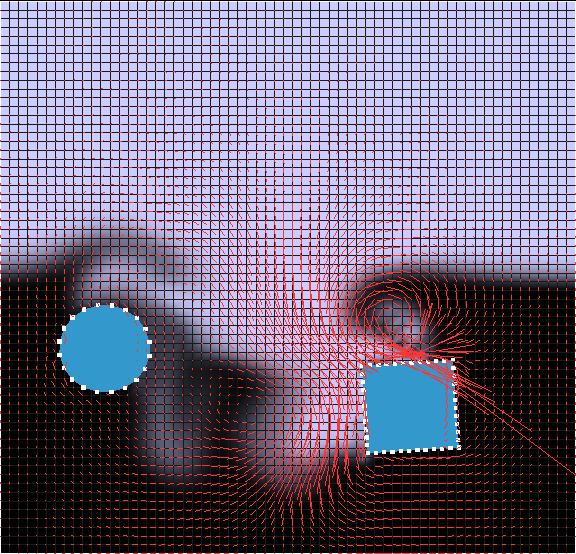
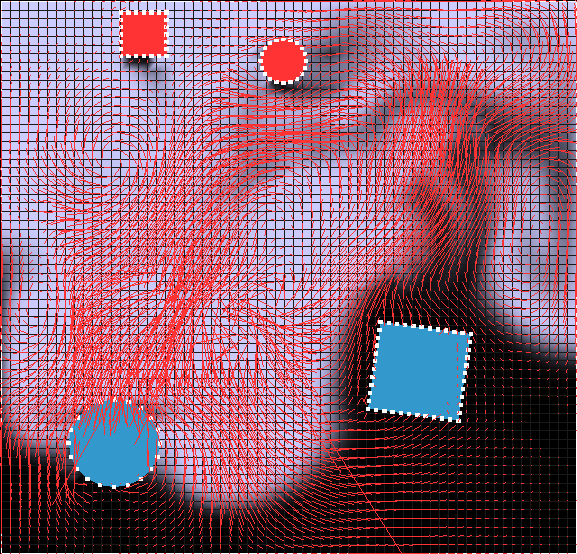
Added moving solids to scenario 4 and put image in report

diff --git a/Fluid Simulation/FluidsProject/Game.cs b/Fluid Simulation/FluidsProject/Game.cs
@@ -60,8 +60,14 @@ namespace FluidsProject
             Box box = new Box(new HyperPoint<float>(x0, y0), 100, 10.0f * h, 10.0f * h, N);
             rigids.Add(box);
 
+            Box box2 = new Box(new HyperPoint<float>(N / 4.0f * h, 3*N / 3.5f * h), 100, 5.0f * h, 5.0f * h, N, false);
+            rigids.Add(box2);
+
             Disk disk = new Disk( new HyperPoint<float>(N/4.0f * h, N/3.0f * h), 5 * h, 100);
             rigids.Add(disk);
+
+            Disk disk2 = new Disk(new HyperPoint<float>(3*N / 4.0f * h, 3 * N / 3.5f * h), 2.5f * h, 100, false);
+            rigids.Add(disk2);
         }
 
         private void initConfiguration(string[] args)

diff --git a/Fluid Simulation/Report2/movingrigid.tex b/Fluid Simulation/Report2/movingrigid.tex
@@ -18,7 +18,7 @@ There are two ways in which forces can be applied to an object. Firstly, the flu
 \begin{figure}[!htb]
 \centering
   \includegraphics[height=0.5\textwidth]{img/fluidobject}
-  \captionof{figure}{Rigid bodies being moved by forces exerted by the fluid}
+  \captionof{figure}{Moving solids (red) and rigid bodies (blue) being moved by forces exerted by the fluid}
   \label{fig:fluidobject}
 \end{figure}
 \subsection{Object to fluid coupling}

diff --git a/Fluid Simulation/FluidsProject/Objects/Box.cs b/Fluid Simulation/FluidsProject/Objects/Box.cs
@@ -13,8 +13,8 @@ namespace FluidsProject.Objects
     {
         private float width, height;
 
-        public Box(HyperPoint<float> x, float mass, float height, float width, int N)
-            : base(x, mass)
+        public Box(HyperPoint<float> x, float mass, float height, float width, int N, bool canRotate=true)
+            : base(x, mass, canRotate)
         {
             this.width = width;
             this.height = height;

diff --git a/Fluid Simulation/FluidsProject/Objects/RigidBody.cs b/Fluid Simulation/FluidsProject/Objects/RigidBody.cs
@@ -150,7 +150,11 @@ namespace FluidsProject.Objects
 
         public void draw()
         {
-            GL.Color3(0.2, 0.6, 0.8);
+            if(_canRotate)
+                GL.Color3(0.2, 0.6, 0.8);
+            else
+                GL.Color3(1, 0.2, 0.2);
+
             GL.Begin(BeginMode.Polygon);
             for (int i = 0; i < vertices.Count; i++)
             {
